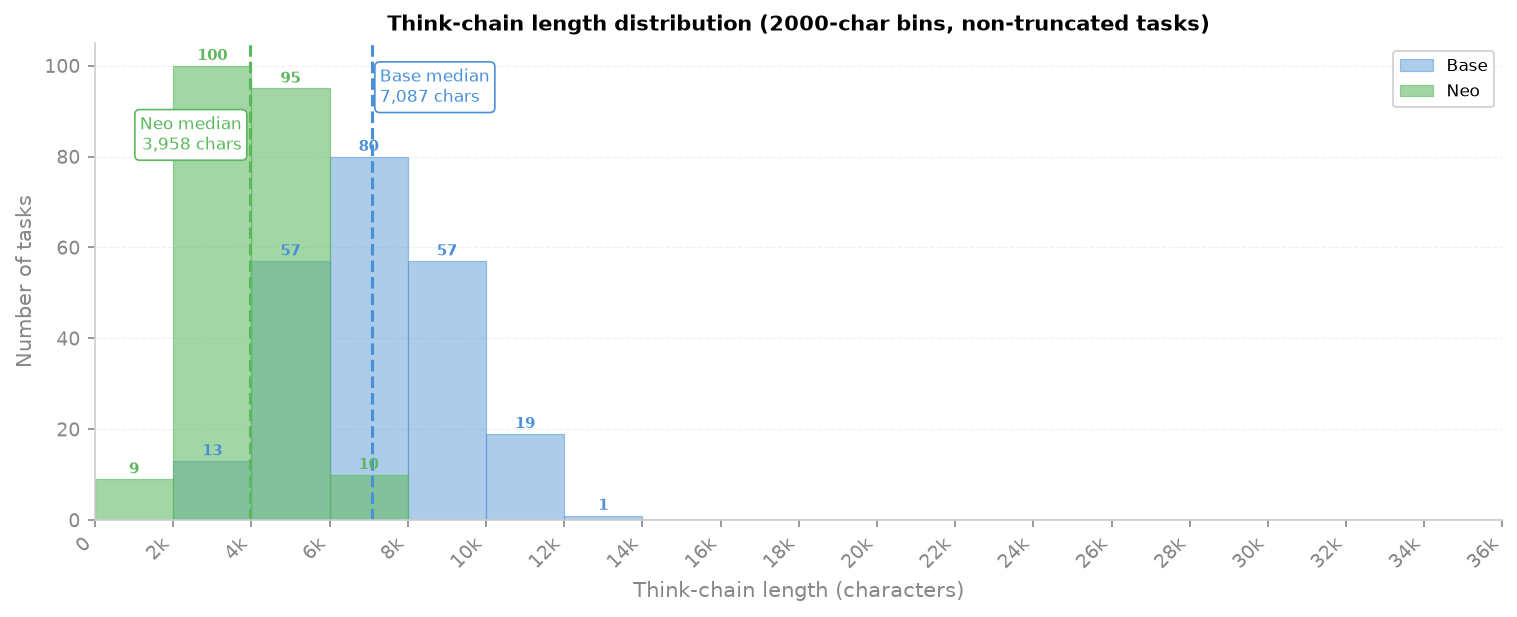
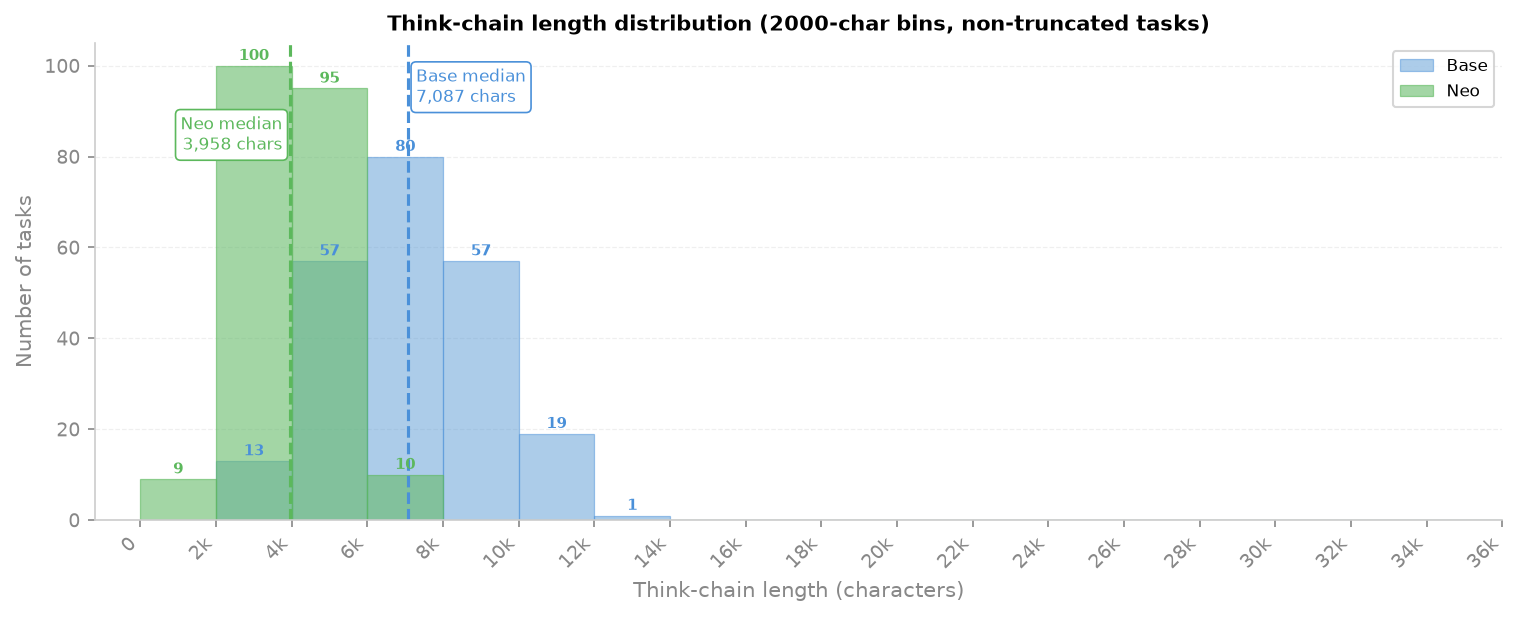
fix: add left margin to Figure 4 x-axis to prevent origin 0 overlap
The x-axis and y-axis "0" tick labels were overlapping at the bottom-left
corner. Changed xlim from (0, 36000) to (-1200, 36000) to create space
between the two "0" labels, matching the reference image style.

diff --git a/src/thinker/eval/plotter.py b/src/thinker/eval/plotter.py
@@ -357,8 +357,8 @@ class ComprehensiveAcademicPlotter:
             "Think-chain length distribution (2000-char bins, non-truncated tasks)",
             fontweight="bold", fontsize=10,
         )
-        # x 轴紧凑刻度：2k/4k/6k...
-        ax.set_xlim(0, 36000)
+        # x 轴紧凑刻度：2k/4k/6k...（左侧留白避免原点 0 重叠）
+        ax.set_xlim(-1200, 36000)
         ax.set_xticks(np.arange(0, 36001, 2000))
         ax.set_xticklabels([
             "0" if v == 0 else f"{v // 1000}k" for v in np.arange(0, 36001, 2000)
